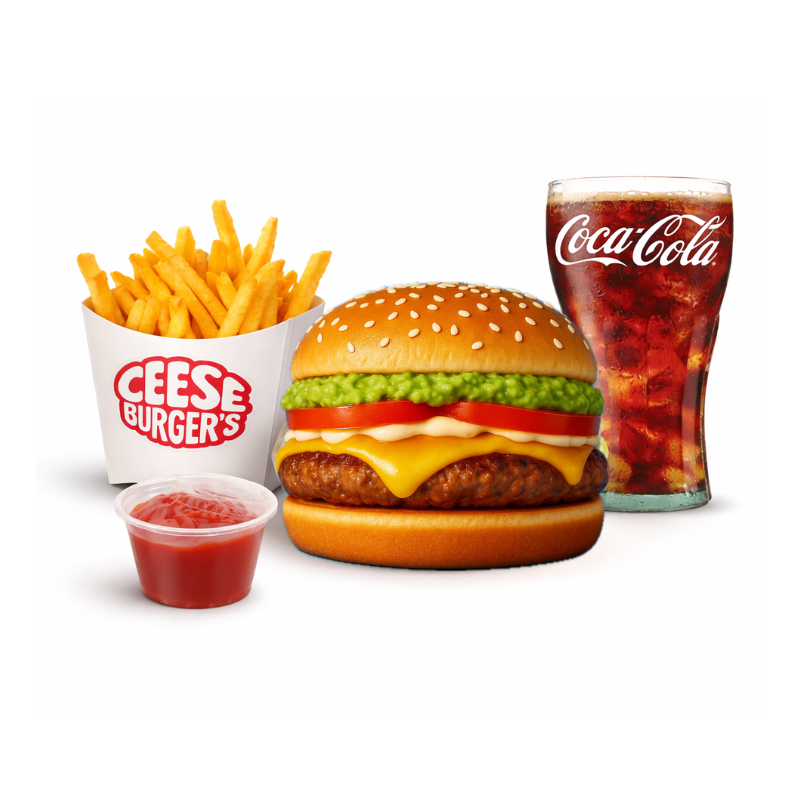
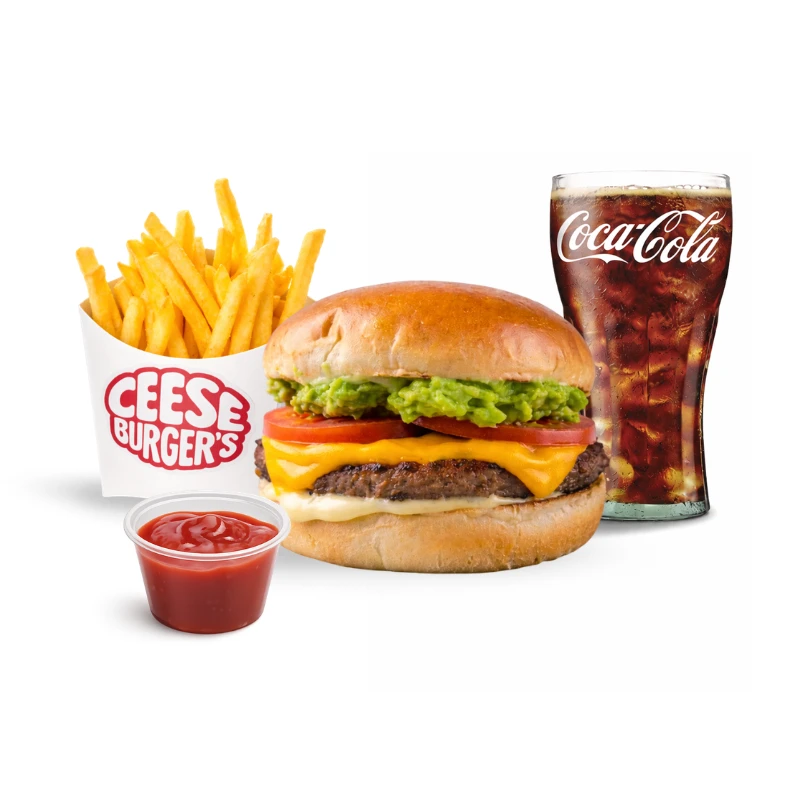
update imagenes menu

Changed region(s): [[0.0938, 0.2188, 0.9375, 0.8125]]

diff --git a/src/components/MenuPage/menuData.ts b/src/components/MenuPage/menuData.ts
@@ -5,6 +5,7 @@ import comboBaconLoversImg from "../../../img/combos/combo-bacon-lovers.webp";
 import comboClasicaIndividualImg from "../../../img/combos-individual/Clasica.webp";
 import comboBaconIndividualImg from "../../../img/combos-individual/bacon.webp";
 import comboItalianaIndividualImg from "../../../img/combos-individual/italiana.webp";
+import comboRompedietaUnoIndividualImg from "../../../img/combos-individual/rompedieta-uno.webp";
 import comboRompedietaDosIndividualImg from "../../../img/combos-individual/rompedieta-dos.webp";
 import comboPaperoBaconImg from "../../../img/combos-paperos/bacon-papero.webp";
 import hambBaconImg from "../../../img/hamb-solas/bacon.webp";
@@ -86,6 +87,20 @@ export const individualCombos: MenuItem[] = [
     imageAlt: "Combo Rompedieta II",
     category: "combo-individual",
     removableIngredients: ["Salsa BBQ", "Huevo frito", "Tocino", "Queso cheddar", "Cebolla caramelizada"],
+    options: [
+      createOptionGroup("bebida", "Sabor de bebida", comboDrinkOptions),
+      createOptionGroup("salsa", "Salsa para las papas", friesSauceOptions),
+    ],
+  },
+  {
+    id: "combo-rompedieta-i",
+    title: "Combo Rompedieta I",
+    description: "Hamburguesa Rompedieta I + papitas + bebida + salsa",
+    price: 5590,
+    image: comboRompedietaUnoIndividualImg,
+    imageAlt: "Combo Rompedieta I",
+    category: "combo-individual",
+    removableIngredients: ["Mayonesa", "Tocino", "Lechuga", "Tomate", "Cebolla morada", "Queso cheddar"],
     options: [
       createOptionGroup("bebida", "Sabor de bebida", comboDrinkOptions),
       createOptionGroup("salsa", "Salsa para las papas", friesSauceOptions),
